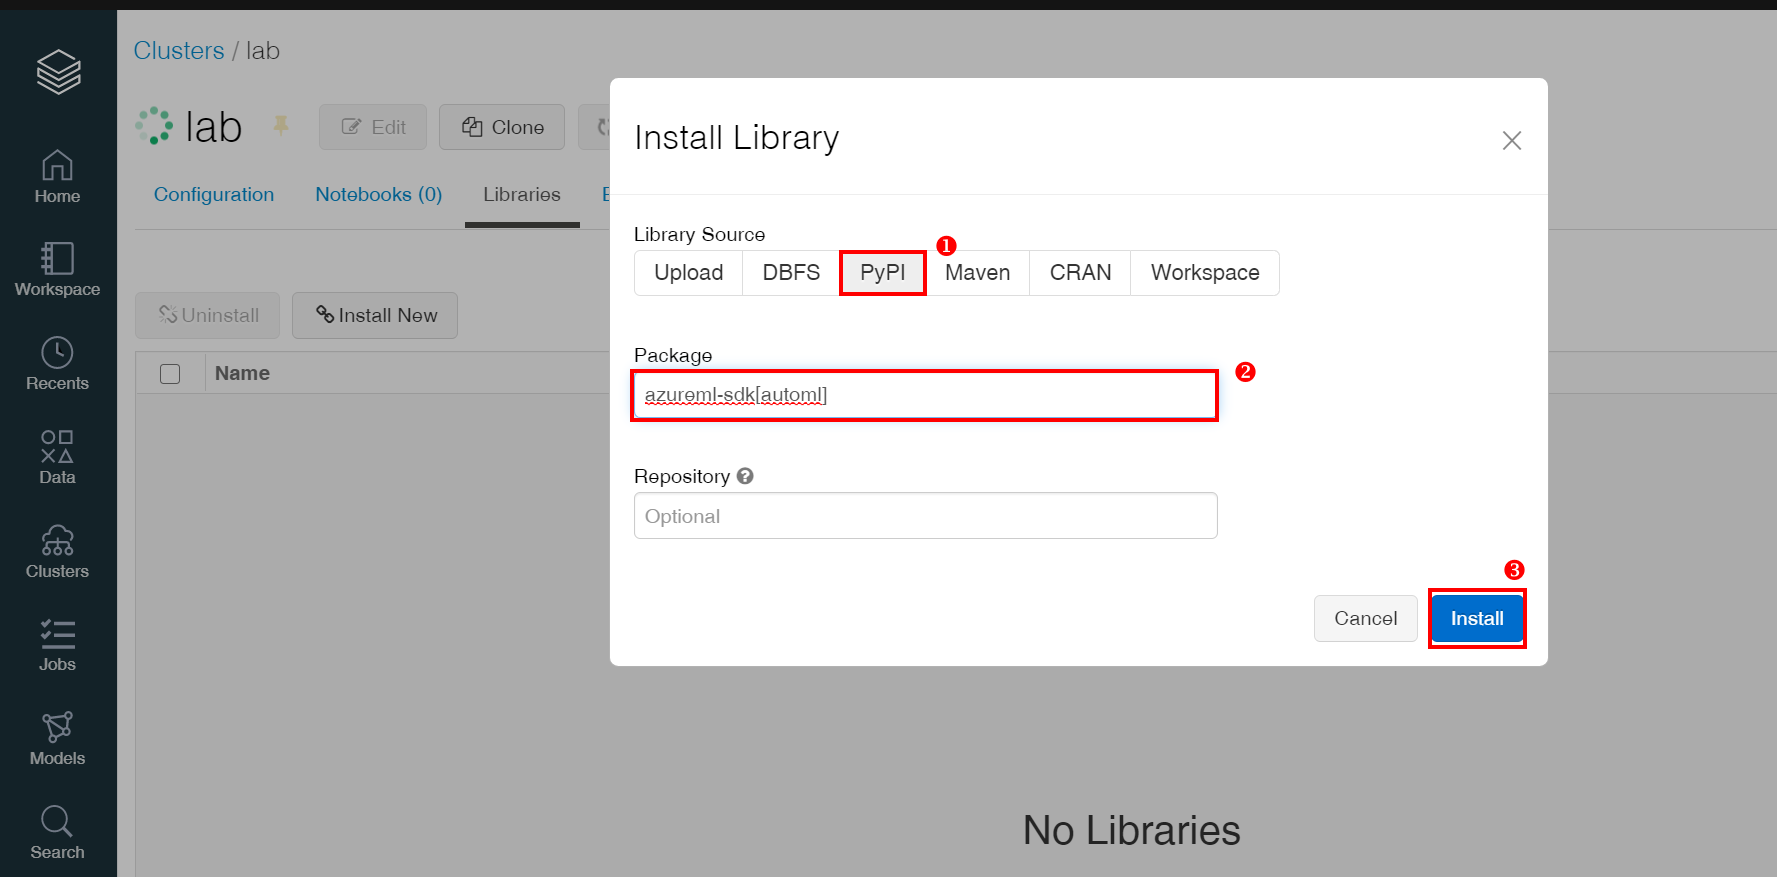
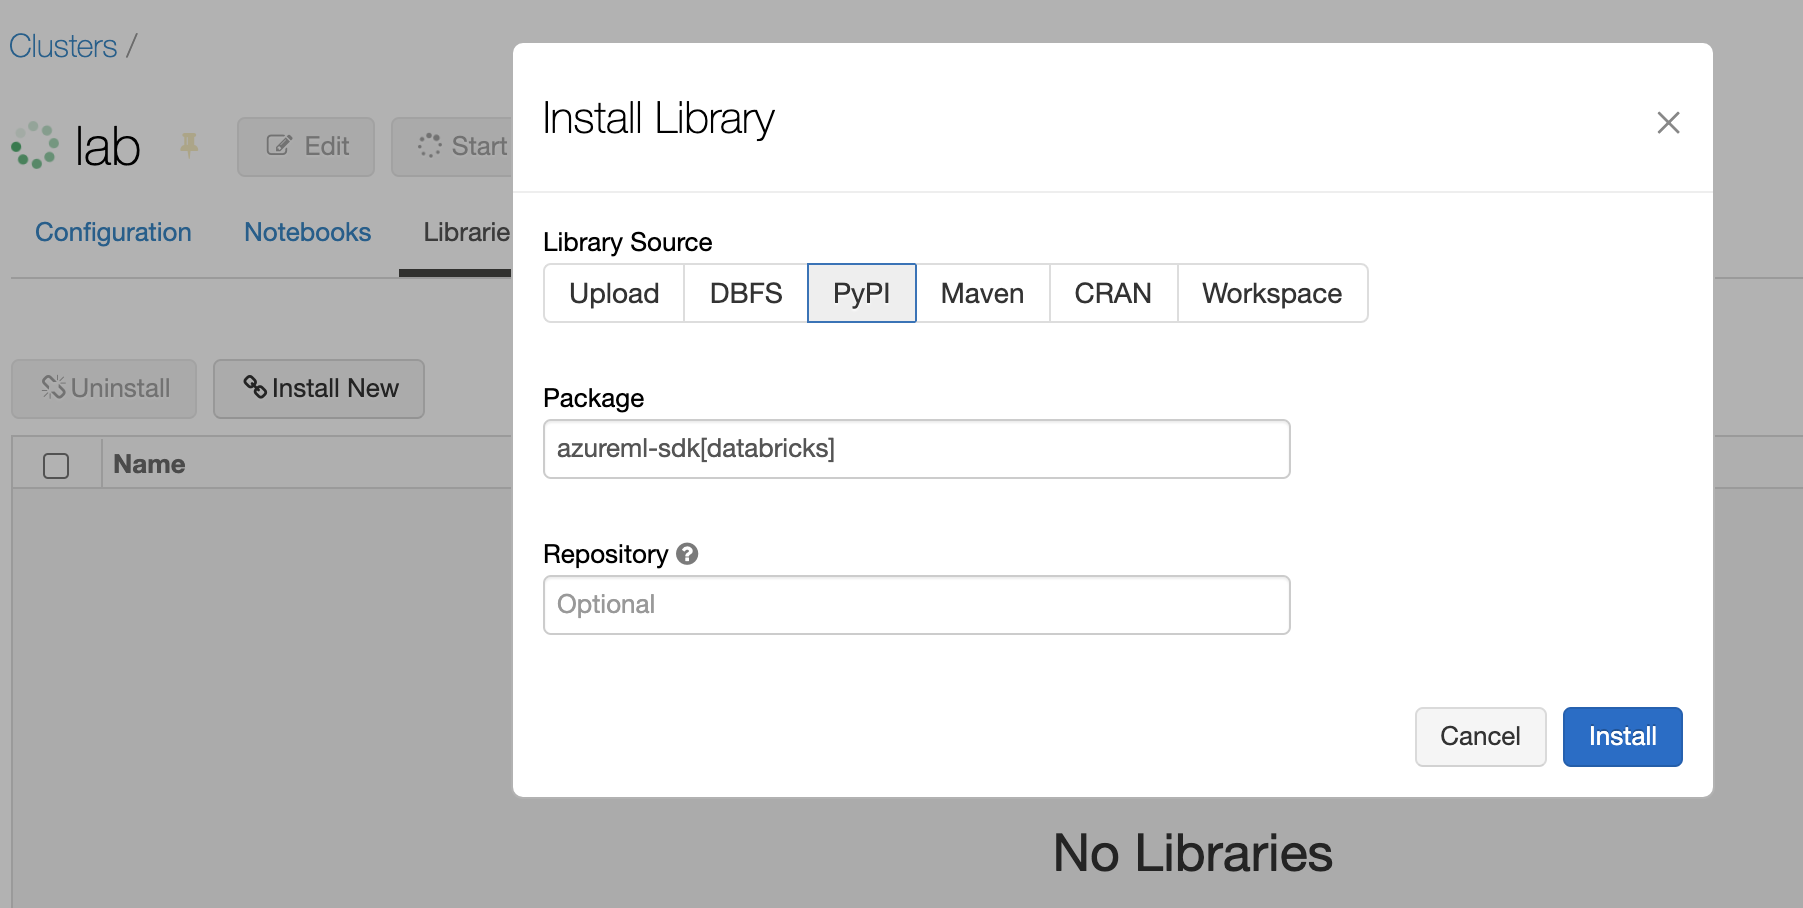
Incorporate intermediate changes

diff --git a/Hands-on lab/Before the HOL - Machine Learning.md b/Hands-on lab/Before the HOL - Machine Learning.md
@@ -107,7 +107,7 @@ You have provisioned an Azure Databricks workspace, and now you need to create a
 
     - **Cluster Mode**: **Standard**
 
-    - **Databricks Runtime Version**: **Runtime: 7.0 (Scala 2.12, Spark 3.0.0)**
+    - **Databricks Runtime Version**: **Runtime: 7.3 LTS (Scala 2.12, Spark 3.0.1)**
 
     - **Enable autoscaling**: **Uncheck** this option.
 
@@ -139,7 +139,7 @@ The notebooks you will run depends on certain Python libraries that will need to
 
     ![In the lab cluster, the Libraries tab is selected and the Install New button is highlighted.](images/azure-databricks-cluster-libraries.png "Install New")
 
-4. In the Library Source, select **PyPi** and in the Package text box type `azureml-sdk[automl]` and select **Install**.
+4. In the Library Source, select **PyPi** and in the Package text box type `azureml-sdk[databricks]` and select **Install**.
 
     ![The Install Library dialog showing the PyPi item selected as the source and the azureml-sdk value entered in the package textbox.](images/azure-databricks-install-library.png "Install Library")
 
